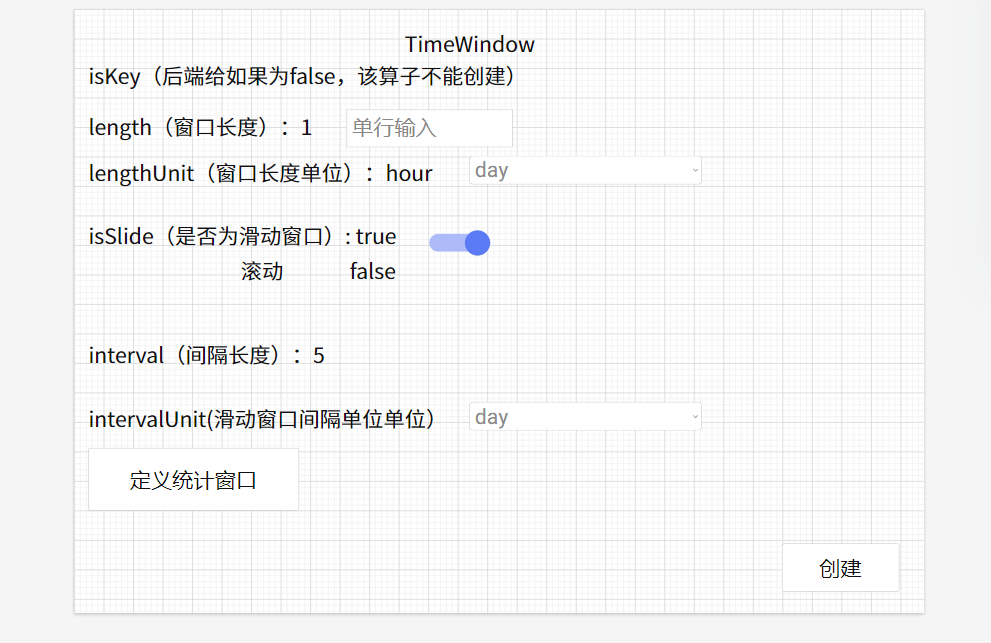
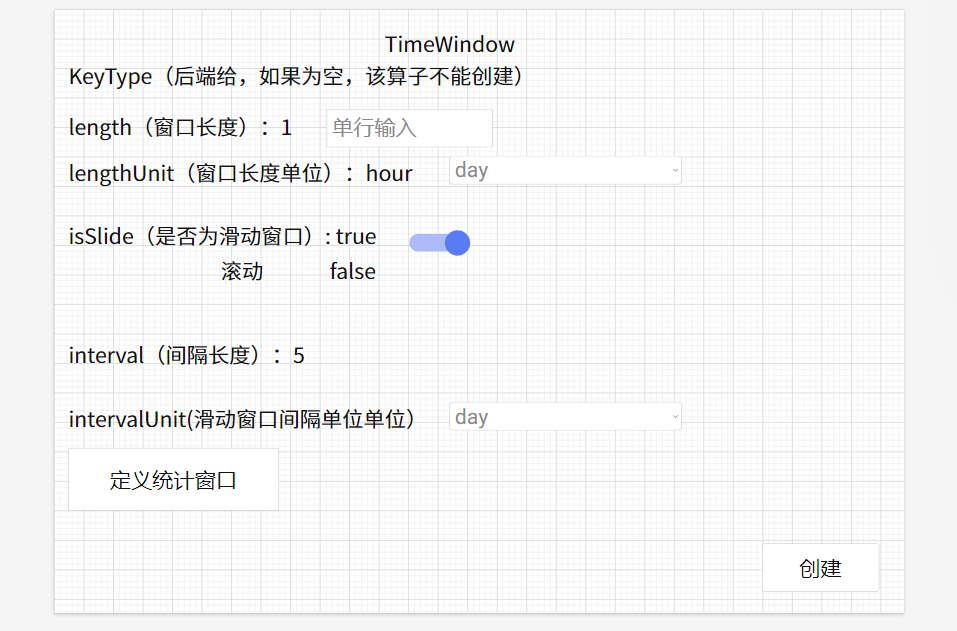
doc: 添加算子注释

diff --git a/stream-service/src/main/java/cn/ist/lowcoding/streamservice/freemaker/FMWindowViewCount.java b/stream-service/src/main/java/cn/ist/lowcoding/streamservice/freemaker/FMWindowViewCount.java
@@ -26,14 +26,6 @@ public class FMWindowViewCount {
 
     public void generate(){
 
-//        //固定
-//        if(isKey){
-//            TypeAndName typeAndName = new TypeAndName();
-//            typeAndName.setName(keyName);
-//            typeAndName.setType(keyType);
-//        }
-
-
         // step1 创建freeMarker配置实例
         Configuration configuration = new Configuration();
         Writer out = null;

diff --git a/stream-service/README.md b/stream-service/README.md
@@ -47,5 +47,7 @@ originalType：固定为String
 ![img.png](doc-images/img-mapConstruct.png)
 ![img.png](doc-images/img-ascendingTimestamp.png)
 ![img.png](doc-images/img-filterDataClassOne.png)
+timeWindow算子keyBYDataClass可传空
 ![img.png](doc-images/img-keyByDataClass.png)
+timeWindow算子finalType可传空
 ![img.png](doc-images/img-timeWindow.png)
